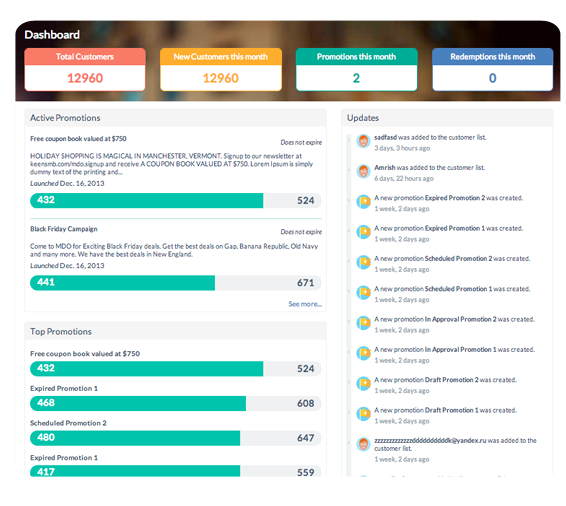
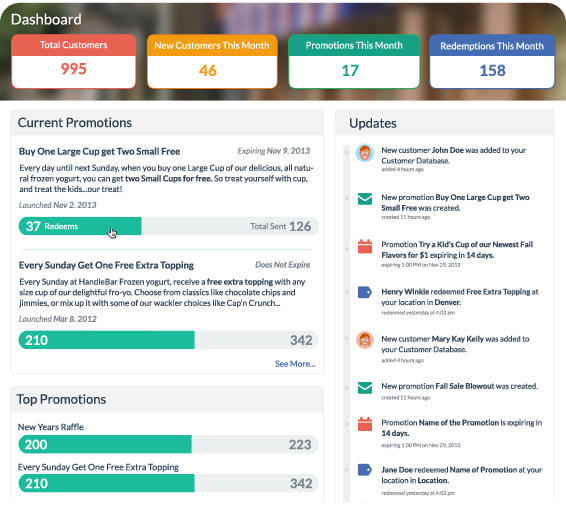
more updates to landing page

diff --git a/keen/web/templates/front-page/index.html b/keen/web/templates/front-page/index.html
@@ -99,7 +99,7 @@
 			<div class="container">
 				<div class="row">
 					<div class="col-xs-6">
-            <img src="{% static "images/email-illustration-for-landing-page.png" %}" width="400" height="376" alt="Connect with your customers directly by sending them automated email promotions">
+            <img src="{% static "images/email-illustration-for-landing-page.png" %}" width="400" height="376" alt="Connect with your customers directly by sending them automated email promotions" style="margin-left:25px;">
 					</div>
 					<div class="col-xs-6">
 						<h6 class="mtl">Connect with your customers directly by sending them automated email promotions</h6>
@@ -130,7 +130,7 @@
 			<div class="container">
 				<div class="row">
 					<div class="col-xs-6">
-						<img src="{% static "images/dashboard-for-landing-page.png" %}"  width="465" height="350" alt="Dashboard example">
+                        <img src="/static/images/dashboard-for-landing-page.png" width="450" height="350" alt="Dashboard example" style="margin-left:15px;">
 					</div>
 					<div class="col-xs-6">
 						<h6>Easily Monitor The Performance of Your Promotions</h6>

diff --git a/keen/web/templates/front-page/topbar.html b/keen/web/templates/front-page/topbar.html
@@ -34,7 +34,7 @@
 		<div class="login">
       <a href="#" class="btn btn-large btn-success" data-toggle="modal" data-target="#loginModal">Sign In</a>
 		</div>
-		<div class="signup">
+		<div class="signup">œ
 			<a href="#" class="btn btn-hg btn-embossed btn-info" data-toggle="modal" data-target="#tryFree">Try Keen for Free!</a>
 		</div>
 		<!-- Carousel nav
